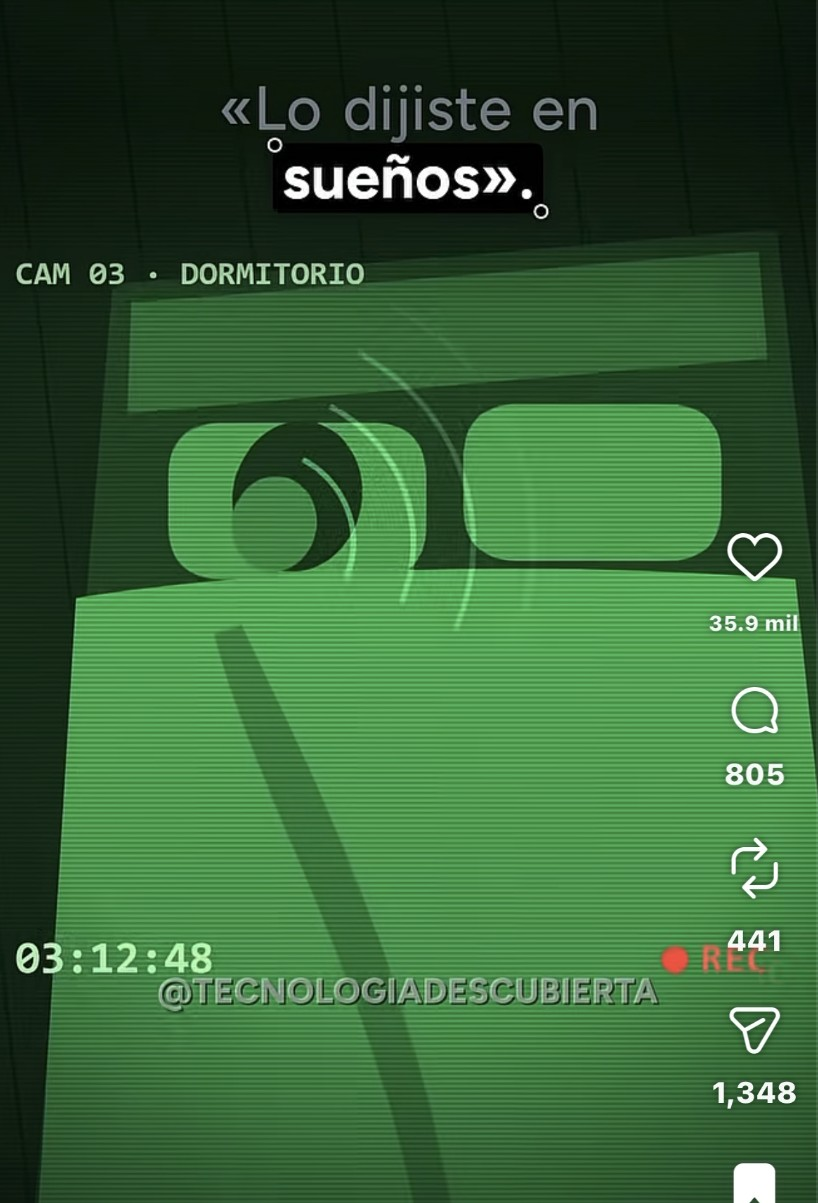
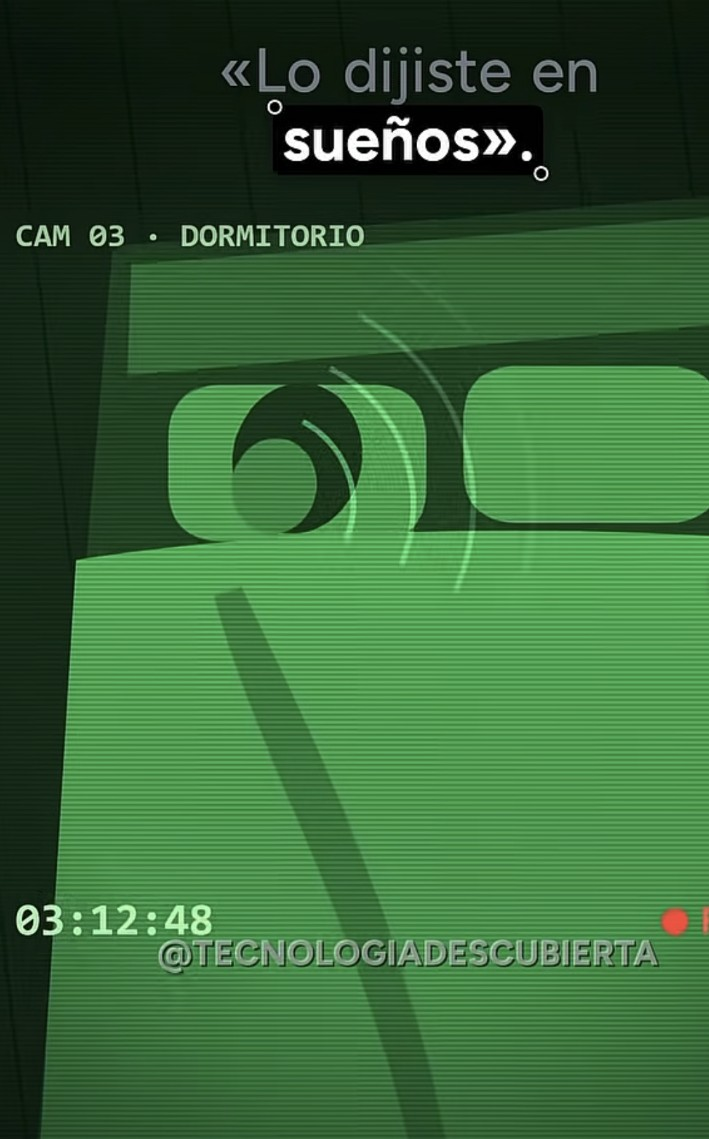
Serie Luna parte 1: referencias recortadas sin interfaz de Instagram
Claude-Session: https://claude.ai/code/session_01NcqyoPWYYrQVxTVUuo8w3d

Changed region(s): [[0.0, 0.0307, 1.0, 1.0], [0.9929, 0.0, 1.0, 0.0307]]

diff --git a/videos/serie-luna/parte-1/assets/lib/post.js b/videos/serie-luna/parte-1/assets/lib/post.js
@@ -28,7 +28,7 @@
         void main(){ vec3 c = vec3(0.); for (int i = 0; i < 24; i++) { float s = float(i) / 23. - .5; c += texture2D(tC, vUv + mv * s - (vUv - .5) * zoom * (s + .5)).rgb; } c /= 24.;
           c += texture2D(tB, vUv).rgb * bloom; vec3 ca = texture2D(tA, vUv).rgb; if (!(ca.r == ca.r) || !(ca.g == ca.g) || !(ca.b == ca.b)) ca = vec3(0.); c = mix(c, clamp(ca, 0., 64.), fade);
           float L = dot(c, vec3(.3, .55, .15)); c = mix(c, vec3(L * 1.9 + .02, L * .28, L * .32), rojo * .85);
-          if (verde > 0.) { float Lv = dot(c, vec3(.3, .55, .15)); Lv = pow(Lv, 1.7) * .9; vec3 g = vec3(Lv * .32, Lv * 1.55 + .02, Lv * .36); g *= .82 + .18 * sin(vUv.y * 1920. * 1.6); g += (h(vUv * 777. + grano * 3.) - .5) * .06; c = mix(c, g, verde); }
+          if (verde > 0.) { float Lv = dot(c, vec3(.3, .55, .15)); Lv = pow(Lv, 1.8) * .62; vec3 g = vec3(Lv * .32, Lv * 1.55 + .02, Lv * .36); g *= .82 + .18 * sin(vUv.y * 1920. * 1.6); g += (h(vUv * 777. + grano * 3.) - .5) * .06; c = mix(c, g, verde); }
           vec2 q = vUv - .5; c *= 1. - (.45 + .4 * oscuro) * dot(q * vec2(1.25, .9), q * vec2(1.25, .9)) * 2.2;
           c *= 1. - oscuro * .55; c += (h(vUv * 1000. + grano) - .5) * .018;
           gl_FragColor = vec4(c, 1.);
